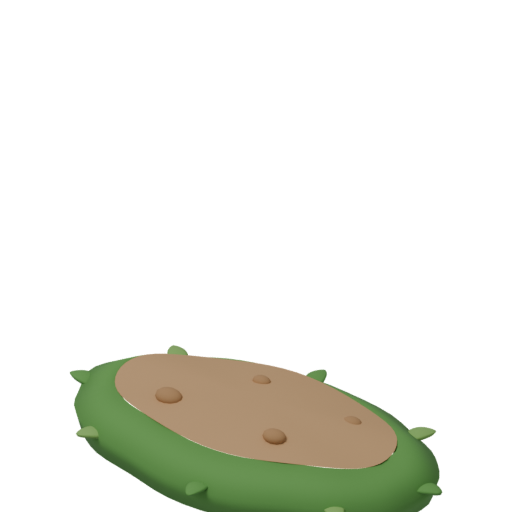
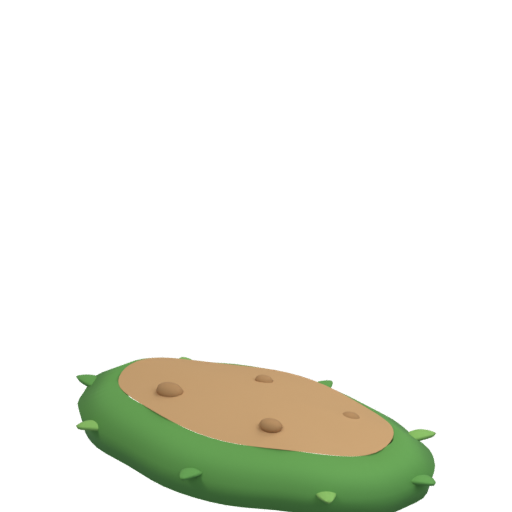
Soil patch: re-render through the frozen profile so it shares the crops' light
The shipped soil_grass_patch.png had no recorded source and was lit by
the old softbox/AgX rig: muddy soil, dark grass, a different light from
every crop standing on it. Rendered through the same frozen profile as
the rest and installed; the recipe now points at props/.

Claude-Session: https://claude.ai/code/session_019g3c3YU14nvfDVovyXoWTC

Changed region(s): [[0.125, 0.6562, 0.875, 1.0]]

diff --git a/assets/harvest_3d/source/pipeline/README.md b/assets/harvest_3d/source/pipeline/README.md
@@ -66,15 +66,17 @@ renders stay on disk for a look, nothing is installed.
 - **Props.** `basket_empty` is the whole-plant basket GLB (the same file the
   runtime ships) at its own 1.94 m span; the recipe uses `from_glb` plus
   `ortho_scale`. `soil_cover` still comes from the frozen GLB profile in
-  `soil_cover_candidate/`. `soil_grass_patch` has no recorded source and the
-  sprite-pack model is 7 px narrower than the shipped PNG, so its recipe
-  renders for the sheet but installs nothing.
+  `soil_cover_candidate/`. `soil_grass_patch` had no recorded source and was lit by
+  the old softbox rig (muddy soil, dark grass, nothing like the crops standing
+  on it); it was re-rendered through the frozen profile and installed, so the
+  whole set now shares one light.
 
 | sprite | differing pixels vs shipped |
 |---|---|
 | apple, bug, corn, golden_carrot, lettuce, orange, potato, stone, strawberry, watermelon | 0 |
 | broccoli, carrot, grape, peas, pumpkin, tomato, wheat | 1 |
 | basket_empty | 344 (same alpha box; shading noise) |
+| soil_grass_patch | replaced on purpose: the old PNG came from the other rig |
 
 ## Add an asset
 

diff --git a/PLAN.md b/PLAN.md
@@ -115,10 +115,10 @@ These are yours to make. Nothing below has been changed without asking.
    and renders one model per recipe; `build.py` also writes the manifest and
    runs the Pillow audit and contact sheet. Rendered in the sandbox through
    `pip install bpy`: all seventeen crops match `assets/harvest_3d/crops/` to
-   0 or 1 pixel, the basket to its alpha box. What is left: retire the fifteen
-   old scripts (keep the frozen profile .blend they share), move `soil_cover`
-   onto a recipe, and decide which `soil_grass_patch` is right, since the
-   shipped one has no recorded source.
+   0 or 1 pixel, the basket to its alpha box. `soil_grass_patch` was re-rendered through the
+   same profile and installed (the old one was lit by the other rig). What is
+   left: retire the fifteen old scripts (keep the frozen profile .blend they
+   share) and move `soil_cover` onto a recipe.
 6. **The save file has two version fields.** `SAVE_VERSION` is written on
    every save and never read. `FARM_SAVE_VERSION` is the one migrations use.
    Folding them into one is a small change, but it touches every existing save,
